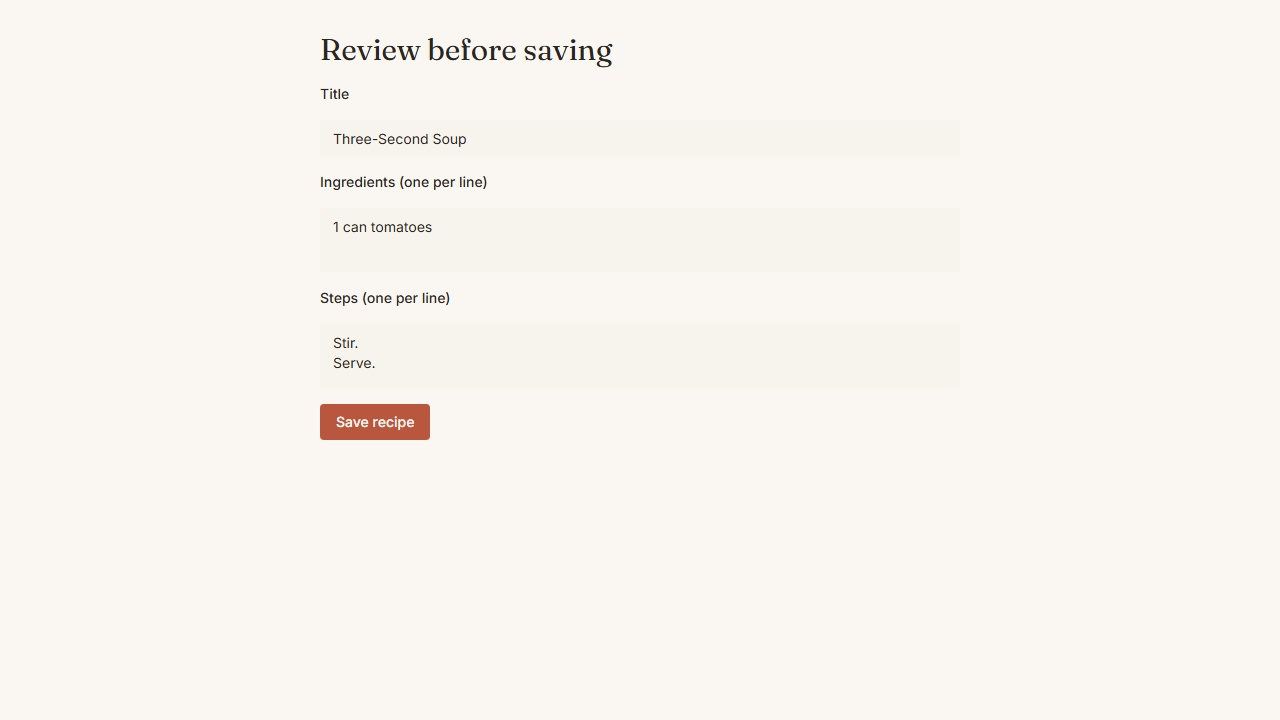
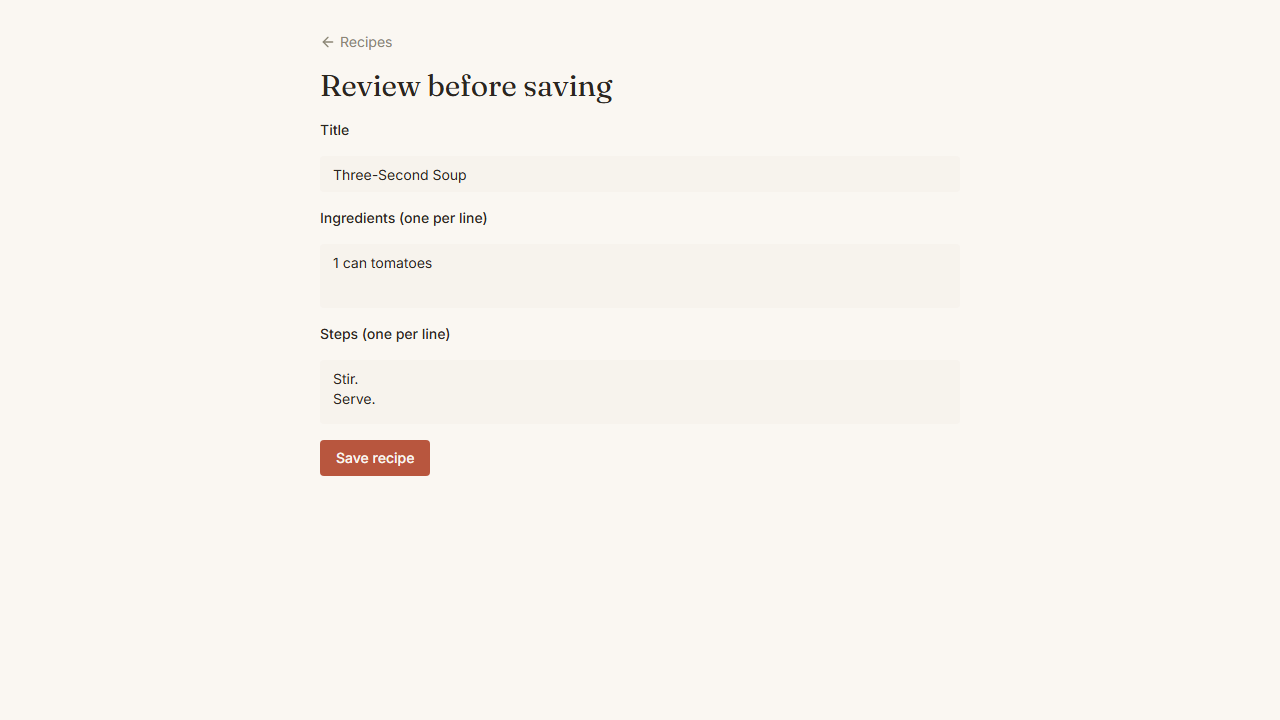
fix: add back-to-recipes navigation to every dead-end screen
Import (both the mode-selection and review screens), the recipe detail
page, and cooking mode (even mid-cook) all lacked any way back except
the browser's own back button. Add a shared BackLink component and use
it consistently: Import -> Recipes, Recipe detail -> Recipes, Cooking
mode -> the recipe - placed separately from cooking mode's existing
step-navigation Back/Pause/Next controls so the two "back" concepts
don't collide.

Also associate the review screen's Title/Ingredients/Steps <label>s
with their inputs via htmlFor/id, and update the e2e specs to select
those fields by label instead of the positional workaround that was
needed before.

Changed region(s): [[0.25, 0.0306, 0.5, 0.4278], [0.25, 0.4583, 0.3438, 0.6722]]

diff --git a/src/app/pages/ImportPage.tsx b/src/app/pages/ImportPage.tsx
@@ -9,6 +9,7 @@ import { Button } from '../components/ui/button'
 import { Input } from '../components/ui/input'
 import { Textarea } from '../components/ui/textarea'
 import { Tabs, TabsContent, TabsList, TabsTrigger } from '../components/ui/tabs'
+import { BackLink } from '../components/BackLink'
 
 type ImportMode = 'url' | 'photos' | 'text'
 type SourceType = 'web' | 'youtube' | 'photo' | 'text'
@@ -145,6 +146,7 @@ export default function ImportPage() {
     return (
       <div className="min-h-screen flex items-center justify-center bg-background">
         <div className="w-full max-w-md space-y-4 px-4">
+          <BackLink to="/">Recipes</BackLink>
           <h1 className="font-serif text-3xl text-center">Import a recipe</h1>
           <Tabs value={mode} onValueChange={(value) => setMode(value as ImportMode)}>
             <TabsList className="w-full">
@@ -229,14 +231,20 @@ export default function ImportPage() {
   return (
     <div className="min-h-screen bg-background">
       <div className="max-w-2xl mx-auto px-4 py-8 space-y-4">
+        <BackLink to="/">Recipes</BackLink>
         <h1 className="font-serif text-3xl">Review before saving</h1>
         {status === 'error' && <p className="text-destructive text-sm">{errorMessage}</p>}
 
-        <label className="block text-sm font-medium">Title</label>
-        <Input value={draft?.title ?? ''} onChange={(e) => setDraft((d) => d && { ...d, title: e.target.value })} />
+        <label htmlFor="draft-title" className="block text-sm font-medium">Title</label>
+        <Input
+          id="draft-title"
+          value={draft?.title ?? ''}
+          onChange={(e) => setDraft((d) => d && { ...d, title: e.target.value })}
+        />
 
-        <label className="block text-sm font-medium">Ingredients (one per line)</label>
+        <label htmlFor="draft-ingredients" className="block text-sm font-medium">Ingredients (one per line)</label>
         <Textarea
+          id="draft-ingredients"
           rows={8}
           value={(draft?.ingredients ?? []).map((i) => i.rawText).join('\n')}
           onChange={(e) =>
@@ -253,8 +261,9 @@ export default function ImportPage() {
           }
         />
 
-        <label className="block text-sm font-medium">Steps (one per line)</label>
+        <label htmlFor="draft-steps" className="block text-sm font-medium">Steps (one per line)</label>
         <Textarea
+          id="draft-steps"
           rows={10}
           value={(draft?.steps ?? []).map((s) => s.instruction).join('\n')}
           onChange={(e) =>

diff --git a/e2e/import-and-cook.spec.ts b/e2e/import-and-cook.spec.ts
@@ -20,13 +20,9 @@ test('review-and-save a manually entered recipe, then cook it', async ({ page })
     await expect(page.getByRole('heading', { name: 'Review before saving' })).toBeVisible()
     await page.screenshot({ path: 'e2e/screenshots/import-review.png' })
 
-    // The "Title" <label> isn't programmatically associated with its <input>
-    // (no htmlFor/id in ImportPage.tsx), so getByLabel can't resolve it. It's
-    // the only <input> on this screen - ingredients/steps use <textarea> - so
-    // target it positionally instead.
-    await page.locator('input').first().fill('Three-Second Soup')
-    await page.locator('textarea').nth(0).fill('1 can tomatoes')
-    await page.locator('textarea').nth(1).fill('Stir.\nServe.')
+    await page.getByLabel('Title').fill('Three-Second Soup')
+    await page.getByLabel('Ingredients (one per line)').fill('1 can tomatoes')
+    await page.getByLabel('Steps (one per line)').fill('Stir.\nServe.')
     await page.getByRole('button', { name: 'Save recipe' }).click()
 
     await expect(page).toHaveURL(/\/recipe\/[\w-]+$/)

diff --git a/e2e/import-photo.spec.ts b/e2e/import-photo.spec.ts
@@ -20,9 +20,9 @@ test('take photos of a recipe, review, and save it without a source link', async
     await expect(page.getByRole('heading', { name: 'Review before saving' })).toBeVisible()
     await page.screenshot({ path: 'screenshot/import-photo-review.png' })
 
-    await page.locator('input').first().fill('Photographed Soup')
-    await page.locator('textarea').nth(0).fill('1 can tomatoes')
-    await page.locator('textarea').nth(1).fill('Stir.\nServe.')
+    await page.getByLabel('Title').fill('Photographed Soup')
+    await page.getByLabel('Ingredients (one per line)').fill('1 can tomatoes')
+    await page.getByLabel('Steps (one per line)').fill('Stir.\nServe.')
     await page.getByRole('button', { name: 'Save recipe' }).click()
 
     await expect(page).toHaveURL(/\/recipe\/[\w-]+$/)

diff --git a/e2e/import-paste-text.spec.ts b/e2e/import-paste-text.spec.ts
@@ -16,9 +16,9 @@ test('paste recipe text, review, and save it without a source link', async ({ pa
     await expect(page.getByRole('heading', { name: 'Review before saving' })).toBeVisible()
     await page.screenshot({ path: 'screenshot/import-paste-text-review.png' })
 
-    await page.locator('input').first().fill('Pasted Soup')
-    await page.locator('textarea').nth(0).fill('1 can tomatoes')
-    await page.locator('textarea').nth(1).fill('Stir.\nServe.')
+    await page.getByLabel('Title').fill('Pasted Soup')
+    await page.getByLabel('Ingredients (one per line)').fill('1 can tomatoes')
+    await page.getByLabel('Steps (one per line)').fill('Stir.\nServe.')
     await page.getByRole('button', { name: 'Save recipe' }).click()
 
     await expect(page).toHaveURL(/\/recipe\/[\w-]+$/)

diff --git a/src/app/pages/CookingModePage.tsx b/src/app/pages/CookingModePage.tsx
@@ -14,6 +14,7 @@ import {
 } from '../lib/timerEngine'
 import type { RecipeWithDetails } from '../lib/types'
 import { Button } from '../components/ui/button'
+import { BackLink } from '../components/BackLink'
 
 export default function CookingModePage() {
   const { id } = useParams<{ id: string }>()
@@ -95,6 +96,9 @@ export default function CookingModePage() {
   return (
     <div className="min-h-screen bg-background flex items-center justify-center">
       <div className="max-w-xl w-full px-4 text-center">
+        <div className="text-left">
+          <BackLink to={`/recipe/${recipe.id}`}>Recipe</BackLink>
+        </div>
         {timer.isDone ? (
           <>
             <h1 className="font-serif text-3xl mb-4">Done cooking!</h1>

diff --git a/src/app/pages/RecipeDetailPage.tsx b/src/app/pages/RecipeDetailPage.tsx
@@ -4,6 +4,7 @@ import { ExternalLink } from 'lucide-react'
 import { getRecipe } from '../lib/recipesApi'
 import type { RecipeWithDetails } from '../lib/types'
 import { Button } from '../components/ui/button'
+import { BackLink } from '../components/BackLink'
 
 export default function RecipeDetailPage() {
   const { id } = useParams<{ id: string }>()
@@ -44,6 +45,7 @@ export default function RecipeDetailPage() {
   return (
     <div className="min-h-screen bg-background">
       <div className="max-w-3xl mx-auto px-4 py-8">
+        <BackLink to="/">Recipes</BackLink>
         <div className="flex items-start justify-between mb-4">
           <div>
             <h1 className="font-serif text-4xl mb-2">{recipe.title}</h1>

diff --git a/src/app/components/BackLink.tsx b/src/app/components/BackLink.tsx
@@ -1,0 +1,15 @@
+import type { ReactNode } from 'react'
+import { Link } from 'react-router-dom'
+import { ArrowLeft } from 'lucide-react'
+
+export function BackLink({ to, children }: { to: string; children: ReactNode }) {
+  return (
+    <Link
+      to={to}
+      className="inline-flex items-center gap-1 text-sm text-muted-foreground hover:text-foreground mb-4"
+    >
+      <ArrowLeft className="size-4" />
+      {children}
+    </Link>
+  )
+}
